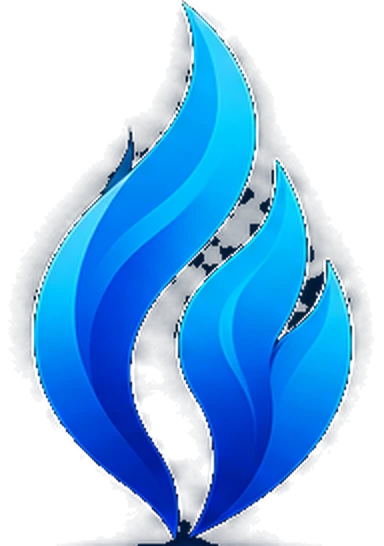
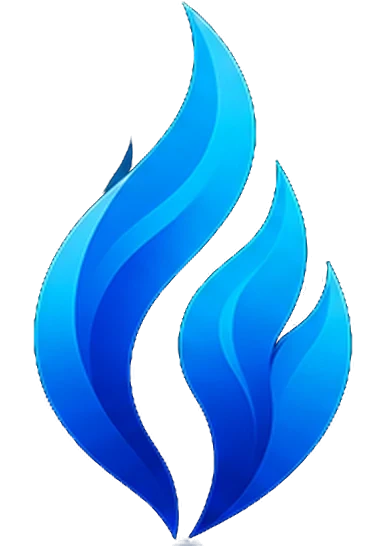
Adiciona tema claro e escuro e limpa a imagem da chama

diff --git a/css/style.css b/css/style.css
@@ -1,9 +1,9 @@
 /* =========================================================
    True Ember — folha de estilos do site
    Organização:
-     1. Variáveis (cores, fontes, medidas)
+     1. Variáveis (cores, fontes, medidas) e tema claro
      2. Base (reset, tipografia, links, foco)
-     3. Estrutura (faixas, miolo, topo)
+     3. Estrutura (faixas, miolo, topo, botão de tema)
      4. Componentes (botões, janela, celular)
      5. Seções (abertura, projeto, serviços, processo, sobre, contato, rodapé)
      6. Acessibilidade (movimento reduzido)
@@ -23,12 +23,42 @@
   --azul-claro: #5FB4FF;   /* texto/links azuis sobre o escuro */
   --ciano: #3CC8FF;
   --brasa: #FF8A3D;        /* versão secundária (laranja) da marca, usada só em um detalhe */
+  --ok: #7EE0A7;
+  --topo-fundo: rgba(5, 7, 13, 0.72);
+  --topo-fundo-forte: rgba(5, 7, 13, 0.82);
+  --botao-2: rgba(255, 255, 255, 0.08);
+  --borda-campo: transparent;
+  --midia-celulares: linear-gradient(160deg, #13203A, #0A1020);
+  --sombra-janela: 0 40px 120px rgba(20, 70, 200, 0.28), 0 0 0 1px rgba(255, 255, 255, 0.08);
+  --sombra-celular: 0 30px 80px rgba(0, 0, 0, 0.6);
 
   --fonte-marca: 'Orbitron', 'Eurostile', 'Segoe UI', sans-serif;
   --fonte: -apple-system, BlinkMacSystemFont, 'Inter', 'Segoe UI', Roboto, sans-serif;
 
   --largura: 1120px;
   --raio: 24px;
+}
+
+/* Tema claro: o js/tema.js coloca data-tema="claro" no <html> (escolha salva ou tema do sistema).
+   Contraste AA: texto-2 7,5:1 e azul dos links 6,4:1 sobre o branco. */
+:root[data-tema="claro"] {
+  color-scheme: light;
+  --fundo: #FFFFFF;
+  --superficie: #F3F5F9;
+  --superficie-2: #FFFFFF;
+  --linha: rgba(10, 30, 80, 0.12);
+  --texto: #0B1220;
+  --texto-2: #4B5563;
+  --azul-claro: #1A56C4;
+  --brasa: #C2510F;
+  --ok: #157347;
+  --topo-fundo: rgba(255, 255, 255, 0.72);
+  --topo-fundo-forte: rgba(255, 255, 255, 0.82);
+  --botao-2: rgba(10, 30, 80, 0.06);
+  --borda-campo: #C5CDDA;
+  --midia-celulares: linear-gradient(160deg, #DCE6F7, #C9D6EE);
+  --sombra-janela: 0 30px 80px rgba(20, 50, 120, 0.18), 0 0 0 1px rgba(10, 30, 80, 0.08);
+  --sombra-celular: 0 24px 60px rgba(10, 20, 50, 0.3);
 }
 * { box-sizing: border-box; }
 html { scroll-behavior: smooth; scroll-padding-top: 80px; background: var(--fundo); }
@@ -49,8 +79,8 @@ p { margin: 0; }
 .pular:focus { transform: none; }
 
 /* ---------- Topo (barra translúcida) ---------- */
-body::before { content: ""; position: fixed; inset: 0 0 auto; height: env(safe-area-inset-top, 0px); z-index: 10; background: rgba(5, 7, 13, 0.82); }
-.topo { position: sticky; top: env(safe-area-inset-top, 0px); z-index: 20; background: rgba(5, 7, 13, 0.72); -webkit-backdrop-filter: saturate(180%) blur(20px); backdrop-filter: saturate(180%) blur(20px); border-bottom: 1px solid var(--linha); }
+body::before { content: ""; position: fixed; inset: 0 0 auto; height: env(safe-area-inset-top, 0px); z-index: 10; background: var(--topo-fundo-forte); }
+.topo { position: sticky; top: env(safe-area-inset-top, 0px); z-index: 20; background: var(--topo-fundo); -webkit-backdrop-filter: saturate(180%) blur(20px); backdrop-filter: saturate(180%) blur(20px); border-bottom: 1px solid var(--linha); }
 .topo .miolo { height: 60px; display: flex; align-items: center; justify-content: space-between; gap: 16px; }
 .marca { display: flex; align-items: center; gap: 10px; color: var(--texto); }
 .marca:hover { text-decoration: none; }
@@ -60,10 +90,14 @@ body::before { content: ""; position: fixed; inset: 0 0 auto; height: env(safe-a
 .topo nav { display: flex; align-items: center; gap: 28px; font-size: 14px; }
 .topo nav a { color: var(--texto-2); }
 .topo nav a:hover { color: var(--texto); text-decoration: none; }
+.tema-botao { width: 36px; height: 36px; flex: none; display: grid; place-items: center; padding: 0; border: 0; border-radius: 50%; background: var(--botao-2); color: var(--texto); cursor: pointer; }
+.tema-botao:hover { filter: brightness(1.15); }
+.tema-botao .icone-lua, :root[data-tema="claro"] .tema-botao .icone-sol { display: none; }
+:root[data-tema="claro"] .tema-botao .icone-lua { display: block; }
 .botao { display: inline-flex; align-items: center; gap: 8px; padding: 12px 22px; border-radius: 999px; font-weight: 600; font-size: 16px; border: 0; cursor: pointer; font-family: inherit; transition: filter .15s, background-color .15s; }
 .botao:hover { text-decoration: none; filter: brightness(1.1); }
 .botao.primario { background: var(--azul); color: #fff; }
-.botao.secundario { background: rgba(255, 255, 255, 0.08); color: var(--texto); }
+.botao.secundario { background: var(--botao-2); color: var(--texto); }
 .botao.pequeno { padding: 8px 16px; font-size: 14px; }
 @media (max-width: 760px) { .topo nav .esconde-celular { display: none; } .topo nav { gap: 16px; } }
 
@@ -81,12 +115,12 @@ body::before { content: ""; position: fixed; inset: 0 0 auto; height: env(safe-a
 
 /* ---------- Vitrine (janela + celular) ---------- */
 .vitrine { position: relative; max-width: 980px; margin: 64px auto 0; padding-bottom: 40px; }
-.janela { border-radius: 18px; overflow: hidden; background: #fff; box-shadow: 0 40px 120px rgba(20, 70, 200, 0.28), 0 0 0 1px rgba(255, 255, 255, 0.08); }
+.janela { border-radius: 18px; overflow: hidden; background: #fff; box-shadow: var(--sombra-janela); }
 .janela .barra { height: 38px; display: flex; align-items: center; gap: 8px; padding: 0 16px; background: #E9EAEE; }
 .janela .barra i { width: 11px; height: 11px; border-radius: 50%; background: #CFD1D7; }
 .janela .barra span { margin-left: 16px; flex: 1; max-width: 380px; height: 24px; border-radius: 7px; background: #fff; color: #6B7080; font-size: 12px; display: flex; align-items: center; justify-content: center; }
 .janela img { width: 100%; height: auto; }
-.celular { width: 240px; border-radius: 40px; padding: 9px; background: #0E0F12; box-shadow: 0 30px 80px rgba(0, 0, 0, 0.6), inset 0 0 0 1.5px #2b2c31; position: relative; }
+.celular { width: 240px; border-radius: 40px; padding: 9px; background: #0E0F12; box-shadow: var(--sombra-celular), inset 0 0 0 1.5px #2b2c31; position: relative; }
 .celular img { border-radius: 32px; width: 100%; aspect-ratio: 390 / 844; object-fit: cover; object-position: top; }
 .celular::after { content: ""; position: absolute; top: 18px; left: 50%; width: 70px; height: 20px; margin-left: -35px; border-radius: 12px; background: #000; }
 .vitrine .celular { position: absolute; right: -36px; bottom: 0; }
@@ -114,7 +148,7 @@ body::before { content: ""; position: fixed; inset: 0 0 auto; height: env(safe-a
 .entrega { background: var(--superficie); border-radius: var(--raio); overflow: hidden; display: flex; flex-direction: column; min-width: 0; }
 .entrega .midia { aspect-ratio: 4 / 3; overflow: hidden; background: #E9EAEE; display: flex; align-items: flex-start; justify-content: center; }
 .entrega .midia img { width: 100%; height: 100%; object-fit: cover; object-position: top left; }
-.entrega .midia.celulares { background: linear-gradient(160deg, #13203A, #0A1020); align-items: flex-end; gap: 14px; padding: 26px 20px 0; }
+.entrega .midia.celulares { background: var(--midia-celulares); align-items: flex-end; gap: 14px; padding: 26px 20px 0; }
 .entrega .midia.celulares img { width: 42%; height: auto; border-radius: 22px 22px 0 0; object-fit: cover; box-shadow: 0 0 0 5px #0E0F12; }
 .entrega .texto { padding: 22px 24px 26px; }
 .entrega h3 { font-size: 21px; letter-spacing: -0.02em; }
@@ -169,12 +203,12 @@ body::before { content: ""; position: fixed; inset: 0 0 auto; height: env(safe-a
 .contato { display: grid; grid-template-columns: minmax(0, 1fr) minmax(0, 1.1fr); gap: 56px; align-items: start; }
 .formulario { background: var(--superficie); border-radius: var(--raio); padding: 30px; display: grid; gap: 16px; }
 .formulario label { display: grid; gap: 6px; font-size: 14px; color: var(--texto-2); }
-.formulario input, .formulario select, .formulario textarea { font: inherit; font-size: 17px; color: var(--texto); background: var(--superficie-2); border: 1px solid transparent; border-radius: 12px; padding: 13px 14px; width: 100%; }
+.formulario input, .formulario select, .formulario textarea { font: inherit; font-size: 17px; color: var(--texto); background: var(--superficie-2); border: 1px solid var(--borda-campo); border-radius: 12px; padding: 13px 14px; width: 100%; }
 .formulario textarea { min-height: 120px; resize: vertical; }
 .formulario input:focus, .formulario select:focus, .formulario textarea:focus { outline: none; border-color: var(--azul-claro); box-shadow: 0 0 0 4px rgba(95, 180, 255, 0.2); }
 .formulario .linha2 { display: grid; grid-template-columns: minmax(0, 1fr) minmax(0, 1fr); gap: 16px; }
 .formulario .aviso { font-size: 14px; color: var(--texto-2); min-height: 20px; }
-.formulario .aviso.ok { color: #7EE0A7; }
+.formulario .aviso.ok { color: var(--ok); }
 .escondido { position: absolute; left: -9999px; }
 .canais { list-style: none; padding: 0; margin: 32px 0 0; display: grid; gap: 14px; }
 .canais li { display: flex; align-items: center; gap: 12px; color: var(--texto-2); }

diff --git a/js/tema.js b/js/tema.js
@@ -1,0 +1,48 @@
+/* =========================================================
+   True Ember — tema claro e escuro
+   Carregado no <head> (sem defer) para aplicar o tema antes de a página aparecer, sem "piscar".
+   1. Escolhe o tema: o que a pessoa salvou ou, se nada foi salvo, o tema do sistema
+   2. Acompanha o sistema enquanto a pessoa não escolher
+   3. Botão do topo (só aparece com JavaScript ligado)
+   ========================================================= */
+(function () {
+  const raiz = document.documentElement;
+  const sistemaClaro = window.matchMedia('(prefers-color-scheme: light)');
+
+  function salvo() {
+    try { return localStorage.getItem('tema'); } catch (e) { return null; }
+  }
+
+  function aplicar(tema) {
+    raiz.dataset.tema = tema;
+    const meta = document.querySelector('meta[name="theme-color"]');
+    if (meta) meta.content = tema === 'claro' ? '#FFFFFF' : '#05070D';
+    const botao = document.getElementById('botaoTema');
+    if (botao) {
+      const rotulo = tema === 'claro' ? 'Mudar para o tema escuro' : 'Mudar para o tema claro';
+      botao.setAttribute('aria-label', rotulo);
+      botao.title = rotulo;
+    }
+  }
+
+  /* ---------- 1. Tema inicial ---------- */
+  aplicar(salvo() || (sistemaClaro.matches ? 'claro' : 'escuro'));
+
+  /* ---------- 2. Sistema mudou e a pessoa ainda não escolheu: acompanha ---------- */
+  sistemaClaro.addEventListener('change', (e) => {
+    if (!salvo()) aplicar(e.matches ? 'claro' : 'escuro');
+  });
+
+  /* ---------- 3. Botão: troca e salva a escolha ---------- */
+  document.addEventListener('DOMContentLoaded', () => {
+    const botao = document.getElementById('botaoTema');
+    if (!botao) return;
+    aplicar(raiz.dataset.tema);
+    botao.hidden = false;
+    botao.addEventListener('click', () => {
+      const novo = raiz.dataset.tema === 'claro' ? 'escuro' : 'claro';
+      try { localStorage.setItem('tema', novo); } catch (e) {}
+      aplicar(novo);
+    });
+  });
+})();

diff --git a/css/obrigado.css b/css/obrigado.css
@@ -1,8 +1,9 @@
-/* True Ember — página "Mensagem enviada" (depois do formulário) */
-:root { color-scheme: dark; }
-body { margin: 0; min-height: 100vh; display: grid; place-items: center; padding: 24px; background: #05070D; color: #F2F5FA; font-family: -apple-system, BlinkMacSystemFont, Inter, 'Segoe UI', sans-serif; text-align: center; }
+/* True Ember — página "Mensagem enviada" (depois do formulário). Segue o tema escolhido no site (js/tema.js). */
+:root { color-scheme: dark; --fundo: #05070D; --texto: #F2F5FA; --texto-2: #A3AFC2; --foco: #5FB4FF; }
+:root[data-tema="claro"] { color-scheme: light; --fundo: #FFFFFF; --texto: #0B1220; --texto-2: #4B5563; --foco: #1A56C4; }
+body { margin: 0; min-height: 100vh; display: grid; place-items: center; padding: 24px; background: var(--fundo); color: var(--texto); font-family: -apple-system, BlinkMacSystemFont, Inter, 'Segoe UI', sans-serif; text-align: center; }
 img { width: 90px; margin: 0 auto 28px; display: block; }
 h1 { font-size: clamp(34px, 6vw, 56px); letter-spacing: -0.04em; margin: 0; }
-p { color: #A3AFC2; font-size: 19px; margin: 14px 0 30px; }
+p { color: var(--texto-2); font-size: 19px; margin: 14px 0 30px; }
 a { display: inline-block; padding: 12px 22px; border-radius: 999px; background: #1D63E0; color: #fff; font-weight: 600; text-decoration: none; }
-a:focus-visible { outline: 3px solid #5FB4FF; outline-offset: 3px; }
+a:focus-visible { outline: 3px solid var(--foco); outline-offset: 3px; }

diff --git a/index.html b/index.html
@@ -13,6 +13,7 @@
   <link rel="preconnect" href="https://fonts.gstatic.com" crossorigin>
   <link rel="stylesheet" href="https://fonts.googleapis.com/css2?family=Inter:wght@400;500;600;700;800&family=Orbitron:wght@500;600;700&display=swap">
   <link rel="stylesheet" href="css/style.css">
+  <script src="js/tema.js"></script>
 </head>
 <body>
   <a class="pular" href="#conteudo">Pular para o conteúdo</a>
@@ -27,6 +28,10 @@
         <a class="esconde-celular" href="#projetos">Projetos</a>
         <a class="esconde-celular" href="#servicos">Serviços</a>
         <a class="esconde-celular" href="#processo">Como trabalhamos</a>
+        <button class="tema-botao" id="botaoTema" type="button" aria-label="Mudar o tema" hidden>
+          <svg class="icone-sol" width="18" height="18" viewBox="0 0 24 24" fill="none" stroke="currentColor" stroke-width="2" stroke-linecap="round" aria-hidden="true"><circle cx="12" cy="12" r="4.2"/><path d="M12 2.5v2M12 19.5v2M4.6 4.6l1.4 1.4M18 18l1.4 1.4M2.5 12h2M19.5 12h2M4.6 19.4 6 18M18 6l1.4-1.4"/></svg>
+          <svg class="icone-lua" width="18" height="18" viewBox="0 0 24 24" fill="none" stroke="currentColor" stroke-width="2" stroke-linecap="round" stroke-linejoin="round" aria-hidden="true"><path d="M20 14.5A8.5 8.5 0 0 1 9.5 4a8.5 8.5 0 1 0 10.5 10.5Z"/></svg>
+        </button>
         <a class="botao primario pequeno" href="#contato">Fale com a gente</a>
       </nav>
     </div>

diff --git a/obrigado.html b/obrigado.html
@@ -8,6 +8,7 @@
   <meta name="theme-color" content="#05070D">
   <link rel="stylesheet" href="https://fonts.googleapis.com/css2?family=Inter:wght@400;600;800&display=swap">
   <link rel="stylesheet" href="css/obrigado.css">
+  <script src="js/tema.js"></script>
 </head>
 <body>
   <main>

diff --git a/README.md b/README.md
@@ -19,7 +19,8 @@ true-ember-site/
 │   ├── style.css     # estilos do site
 │   └── obrigado.css  # estilos da página "obrigado"
 ├── js/
-│   └── main.js       # configuração, formulário, contatos e VLibras
+│   ├── main.js       # configuração, formulário, contatos e VLibras
+│   └── tema.js       # tema claro e escuro (carregado no <head>)
 ├── assets/
 │   ├── img/          # chama da marca e ícones
 │   ├── pulso/        # telas do projeto Pulso Academia
@@ -37,7 +38,8 @@ No começo do `js/main.js` fica o bloco `CONFIG`:
 | `linkPulso` | Link do site da Pulso no Render. O botão "Abrir o site da Pulso" só aparece quando tiver link. |
 | `email`, `instagram`, `whatsapp` | Contatos. Só aparecem no site os que forem preenchidos. |
 
-As cores e fontes ficam no começo do `css/style.css`, na seção **1. Variáveis**.
+As cores e fontes ficam no começo do `css/style.css`, na seção **1. Variáveis**: primeiro as do tema escuro,
+depois as do tema claro (`:root[data-tema="claro"]`).
 
 ## Rodar no computador
 
@@ -51,8 +53,11 @@ As mensagens do formulário chegam no painel do Netlify, em **Forms**.
 
 ## Acessibilidade
 
-Contraste mínimo WCAG AA, link "Pular para o conteúdo", navegação por teclado, textos alternativos,
+Contraste mínimo WCAG AA nos dois temas, link "Pular para o conteúdo", navegação por teclado, textos alternativos,
 respeito a "reduzir movimento" e tradução para Libras com o VLibras.
+
+**Tema claro e escuro:** o botão de sol/lua no topo troca o tema. Na primeira visita o site segue o tema do
+celular ou computador; depois que a pessoa escolhe, a escolha fica salva no navegador.
 
 ---
 True Ember · Projeto acadêmico da Etec Heliópolis · 2026
